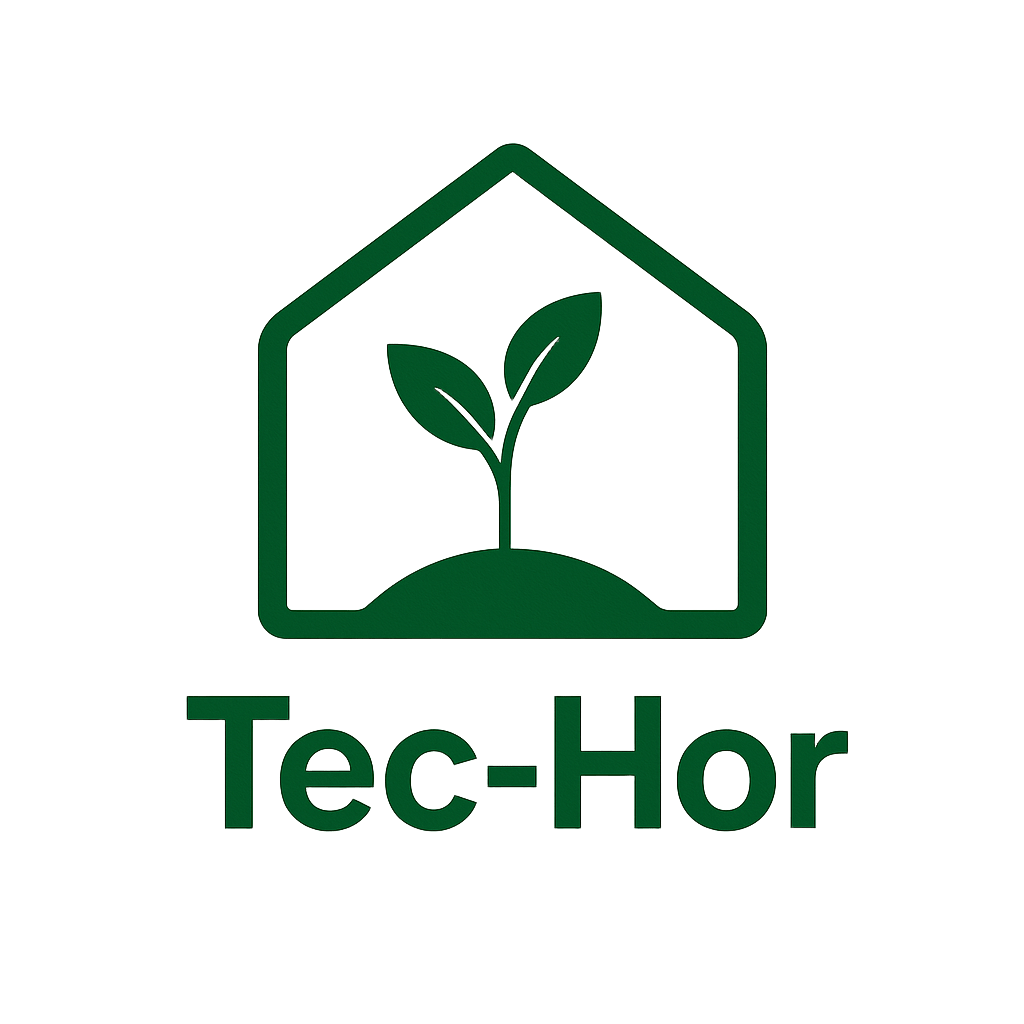
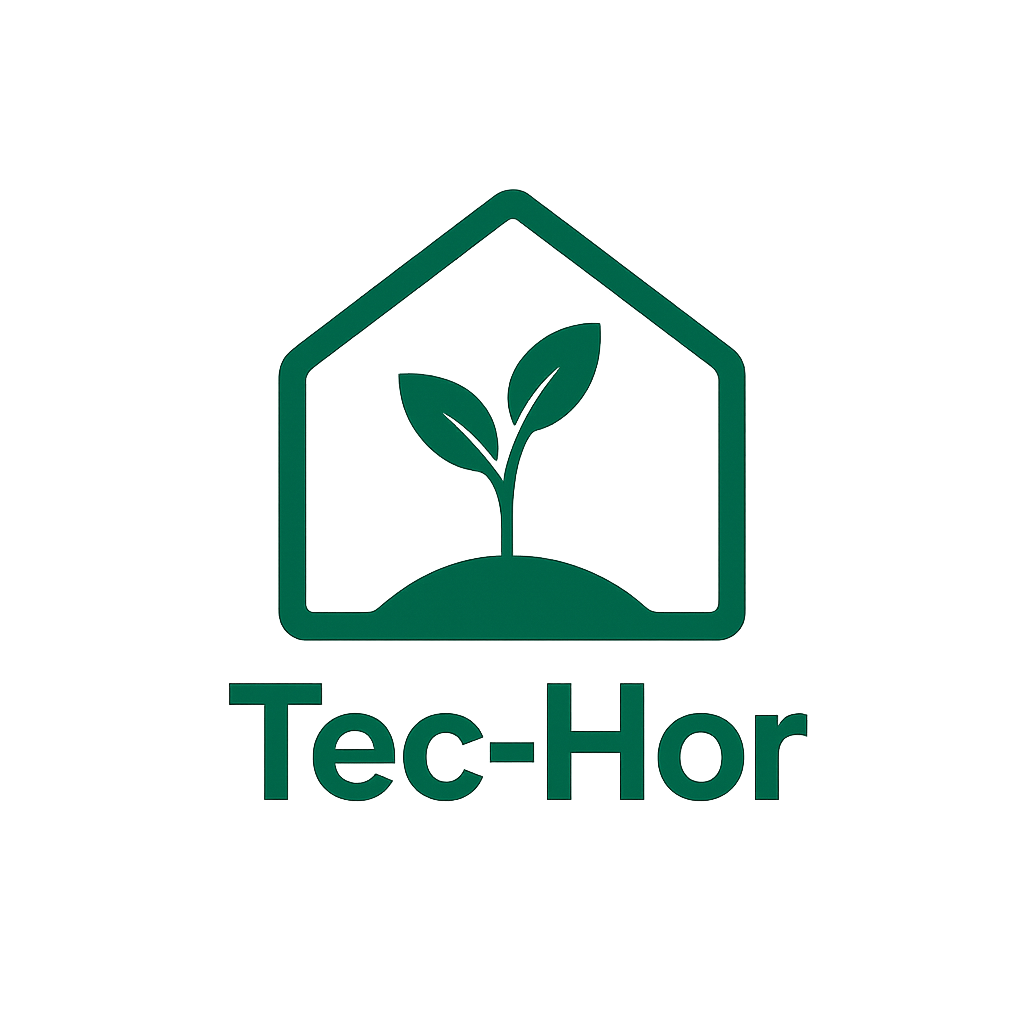
Refactor API calls and update UI components
Introduced a shared API utility (bd.ts) for fetching user data with fallback support. Refactored dataArduino.tsx and dataPlant.tsx to use the new API utility, improving error handling and code reuse. Updated UI logic and styles for better consistency. Updated image assets for icon and splash-icon.

Changed region(s): [[0.25, 0.125, 0.75, 0.625], [0.1875, 0.6562, 0.8438, 0.8125]]

diff --git a/Tec-Hor/src/screen/dataPlant.tsx b/Tec-Hor/src/screen/dataPlant.tsx
@@ -10,10 +10,14 @@ import {
 } from 'react-native';
 import axios from 'axios';
 import * as Clipboard from 'expo-clipboard';
-import { styles } from '@/src/style/style';
-import { useId } from '../services/zustand/UserIdZustand';
 
-interface Planta {
+import { styles } from '@/src/style/style';
+
+import { useId } from '../services/zustand/UserIdZustand';
+import { getByUser } from '@/src/api/bd';
+
+
+ interface Planta {
   id: number;
   usuario_id: number;
   horarios: string;
@@ -21,30 +25,34 @@ interface Planta {
   nomepl: string;
 }
 
-const API_BASE = 'https://servidor-632w.onrender.com/plantas';
-
 const PlantList = () => {
   const [plantas, setPlantas] = useState<Planta[]>([]);
   const [loading, setLoading] = useState<boolean>(true);
   const [deletingId, setDeletingId] = useState<number | null>(null);
-  const idUser = useId((state) => state.id);
+const idUser = useId((state) => state.id);
 
-  // Buscar plantas do usuário
   useEffect(() => {
-    async function fetchPlantas() {
+    let ignore = false;
+
+    async function load() {
       try {
-        const response = await axios.get<Planta[]>(`${API_BASE}/${idUser}`);
-        const data = response.data;
-        const arr = Array.isArray(data) ? data : [data];
-        setPlantas(arr);
-      } catch (error) {
-        console.error('Erro ao buscar plantas:', error);
+        const data = await getByUser<Planta>(idUser, "plantas");
+        if (!ignore) {
+          setPlantas(data);
+        }
+      } catch (err) {
+        if (!ignore) {
+          Alert.alert('Erro', 'Não foi possível carregar as plantas.');
+        }
       } finally {
-        setLoading(false);
+        if (!ignore) setLoading(false);
       }
     }
 
-    fetchPlantas();
+    load();
+    return () => {
+      ignore = true;
+    };
   }, [idUser]);
 
   // Deletar planta
@@ -53,7 +61,9 @@ const PlantList = () => {
 
     try {
       setDeletingId(id);
-      await axios.delete(`${API_BASE}/${id}`);
+      // delete usando API principal
+      await axios.delete(`https://servidor-632w.onrender.com/plantas/${id}`);
+
       setPlantas((prev) => prev.filter((p) => p.id !== id));
     } catch (err) {
       console.error('Erro ao deletar planta:', err);
@@ -83,7 +93,7 @@ const PlantList = () => {
     );
   }
 
-  // Render da lista de plantas
+  // Render da lista
   return (
     <FlatList
       data={plantas}
@@ -92,7 +102,8 @@ const PlantList = () => {
       ListFooterComponent={() => <View style={{ height: 30 }} />}
       renderItem={({ item }) => (
         <View style={styles.dataPlanta}>
-          {/* Botão de copiar horários */}
+
+          {/* Botão copiar */}
           <Pressable
             onPress={() => handleCopy(item.horarios)}
             style={({ pressed }) => [
@@ -110,15 +121,17 @@ const PlantList = () => {
             <Text style={styles.txtW}>Copiar Horários</Text>
           </Pressable>
 
-          {/* Imagem da planta */}
-          {item.foto_url && (
+          {/* Imagem */}
+          {item.foto_url ? (
             <Image source={{ uri: item.foto_url }} style={styles.image} />
+          ) : (
+            <Text style={styles.txtW}>Sem foto</Text>
           )}
 
-          {/* Texto com os horários */}
+          {/* Texto com horário */}
           <Text style={styles.txt}>{item.horarios}</Text>
 
-          {/* Botão de deletar */}
+          {/* Botão deletar */}
           <Pressable
             onPress={() => handleDelete(item.id)}
             style={({ pressed }) => [

diff --git a/Tec-Hor/src/screen/dataArduino.tsx b/Tec-Hor/src/screen/dataArduino.tsx
@@ -9,53 +9,46 @@ import {
 import axios from 'axios';
 import { styles } from '@/src/style/style';
 import { useId } from '../services/zustand/UserIdZustand';
+import { getByUser } from '../api/bd';
 
 
-interface Planta {
+interface Arduino {
   id: number;
   usuario_id: number;
   cod_ard: string;
   umd: string
 }
 
-const API_BASE = 'https://servidor-632w.onrender.com/arduino';
-
 const ArduinoList = () => {
-  const [arduinos, setArduinos] = useState<Planta[]>([]);
+  const [arduinos, setArduinos] = useState<Arduino[]>([]);
   const [loading, setLoading] = useState<boolean>(true);
   const [deletingId, setDeletingId] = useState<number | null>(null);
   const idUser = useId((state) => state.id);
 
   useEffect(() => {
-    async function fetchArduino() {
-      try {
-        const response = await axios.get<Planta[]>(`${API_BASE}/${idUser}`);
-        const data = response.data;
-        const arr = Array.isArray(data) ? data : [data];
-        setArduinos(arr);
-      } catch (error) {
-        console.error('Erro ao buscar arduinos:', error);
-      } finally {
-        setLoading(false);
+      let ignore = false;
+  
+      async function load() {
+        try {
+          const data = await getByUser<Arduino>(idUser, "arduino");
+          if (!ignore) {
+            setArduinos(data);
+          }
+        } catch (err) {
+          if (!ignore) {
+            Alert.alert('Erro', 'Não foi possível carregar as plantas.');
+          }
+        } finally {
+          if (!ignore) setLoading(false);
+        }
       }
-    }
+  
+      load();
+      return () => {
+        ignore = true;
+      };
+    }, [idUser]);
 
-    fetchArduino();
-  }, [idUser]);
-
-  const handleDelete = async (id: number) => {
-    if (deletingId !== null) return;
-
-    try {
-      setDeletingId(id);
-
-    } catch (err) {
-      console.error('Erro ao deletar planta:', err);
-      Alert.alert('Erro', 'Não foi possível deletar a Estufa. Tente novamente.');
-    } finally {
-      setDeletingId(null);
-    }
-  };
 
   if (loading) {
     return (

diff --git a/Tec-Hor/src/api/bd.ts b/Tec-Hor/src/api/bd.ts
@@ -1,0 +1,33 @@
+import axios from 'axios';
+
+export interface t {
+  id: number;
+  usuario_id: number;
+  horarios: string;
+  foto_url: string;
+  nomepl: string;
+}
+
+const API_BASE = "https://servidor-632w.onrender.com";
+const API_FALLBACK = "https://tec-hor.vercel.app";
+
+export async function getByUser<t>(idUser: string, subDom : string): Promise<t[]> {
+  try {
+    const response = await axios.get<t[]>(`${API_BASE}/${subDom}/${idUser}`);
+    const data = response.data;
+    return Array.isArray(data) ? data : [data];
+
+  } catch (error) {
+    console.warn("Erro na API principal, tentando fallback...");
+
+    try {
+      const response = await axios.get<t[]>(`${API_FALLBACK}/${subDom}/${idUser}`);
+      const data = response.data;
+      return Array.isArray(data) ? data : [data];
+
+    } catch (finalError) {
+      console.error("Ambas as APIs falharam:", finalError);
+      throw new Error("Não foi possível carregar as plantas");
+    }
+  }
+}

diff --git a/Tec-Hor/src/style/style.tsx b/Tec-Hor/src/style/style.tsx
@@ -69,7 +69,7 @@ export const styles = StyleSheet.create({
     borderWidth: 1,
     borderRadius: 10,
     alignItems: 'center',
-    
+    padding: 10,
   },
   separator: {
     marginVertical: 30,
